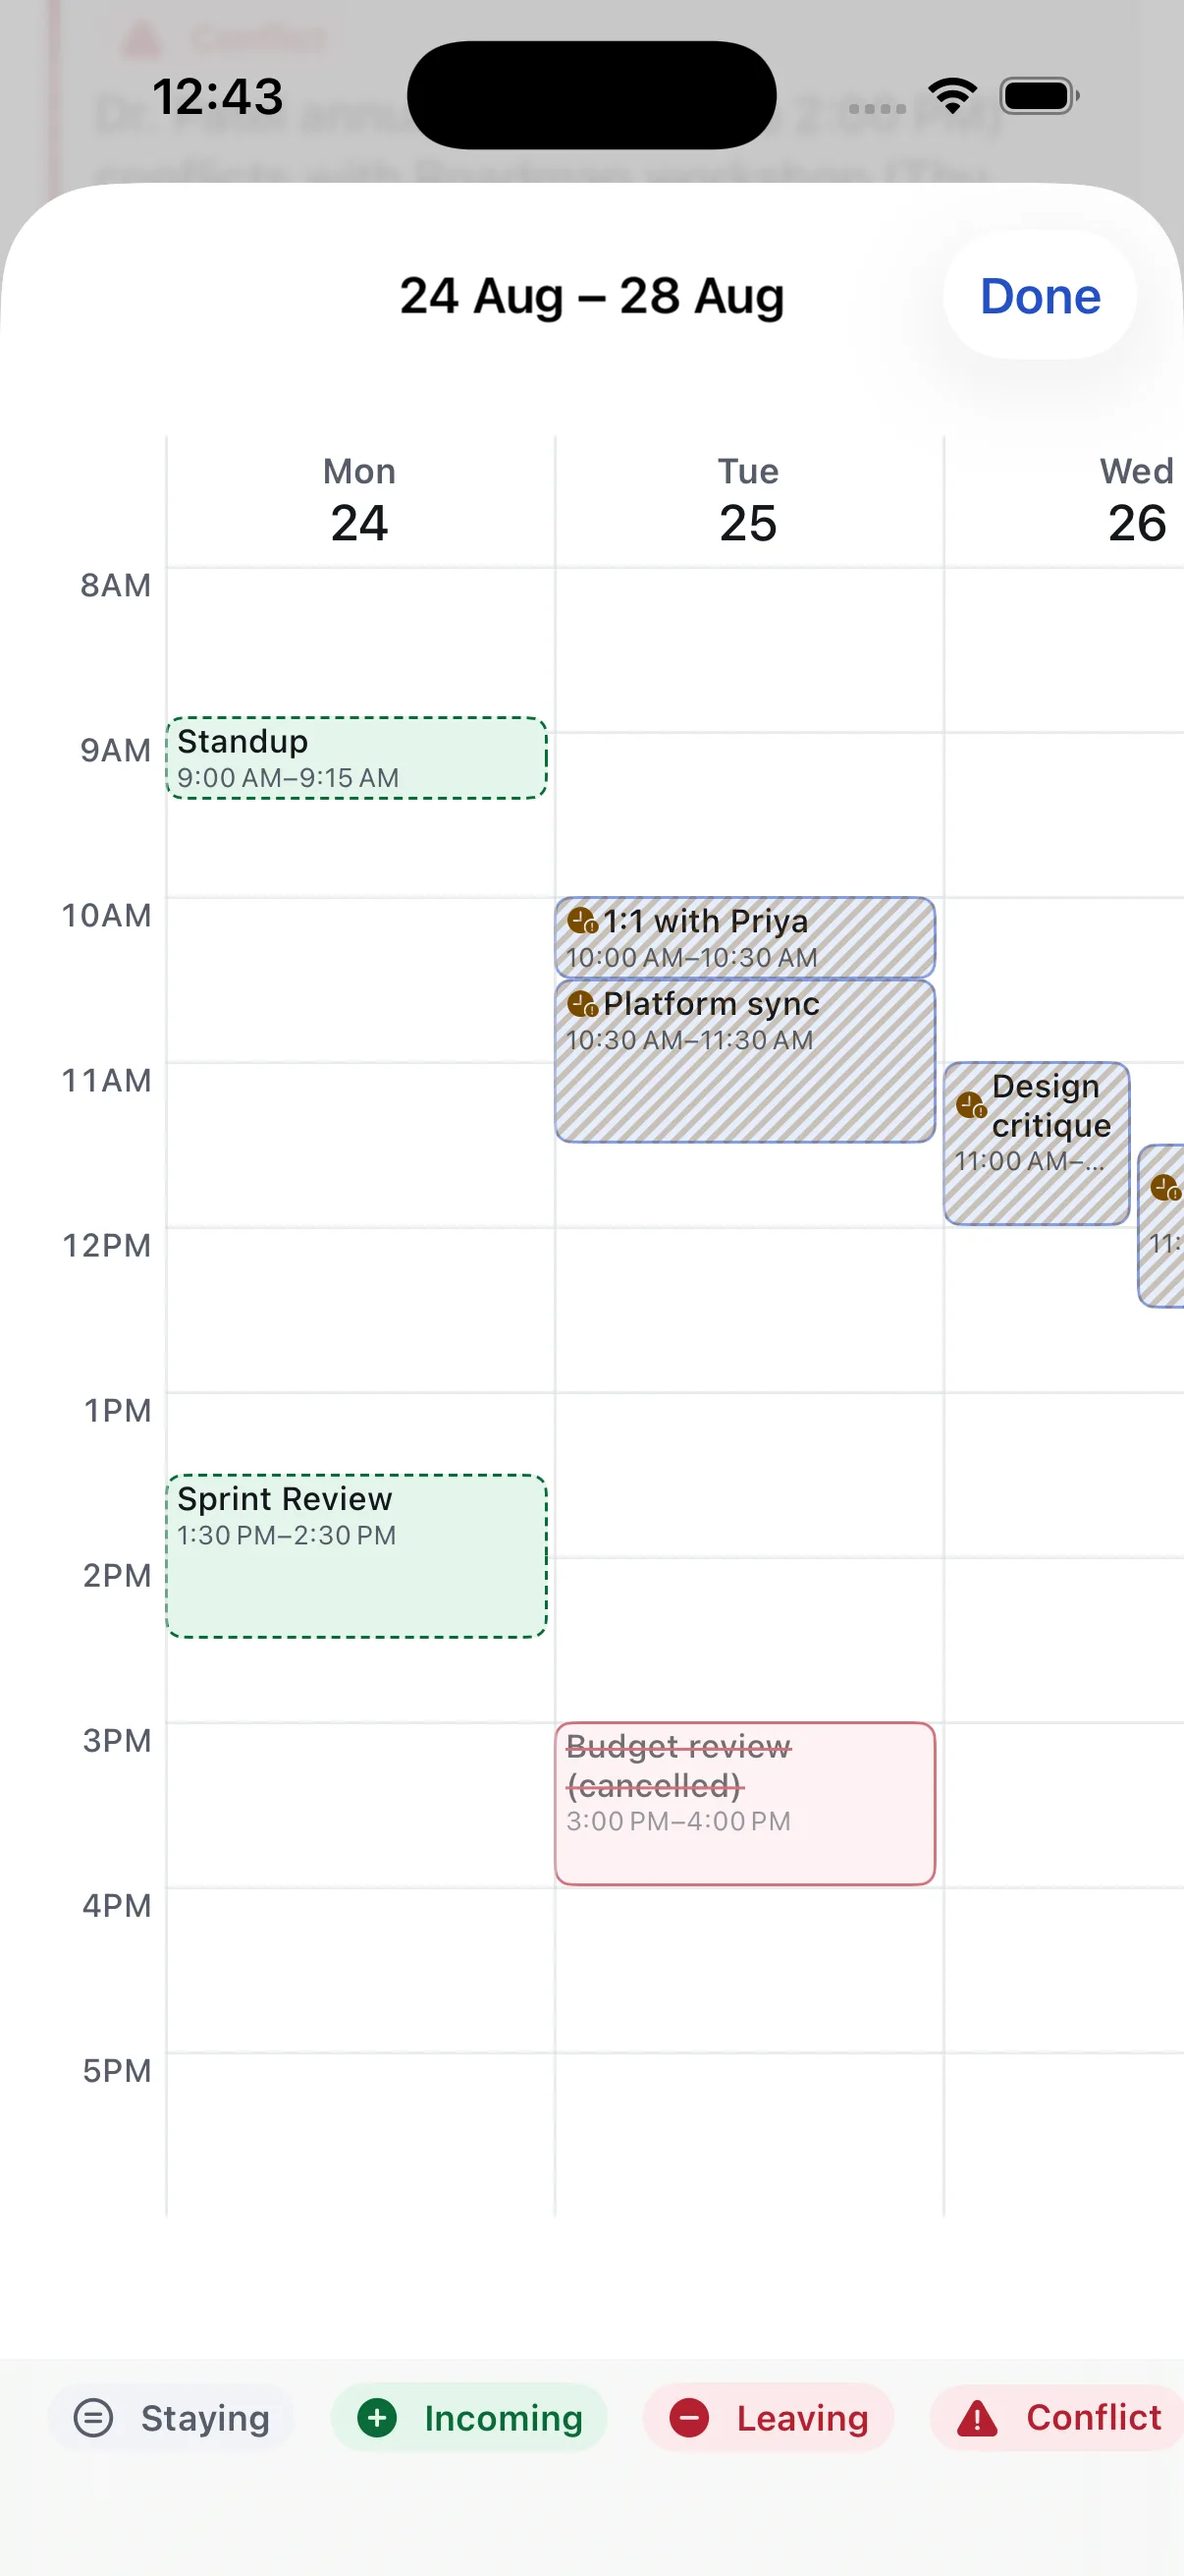
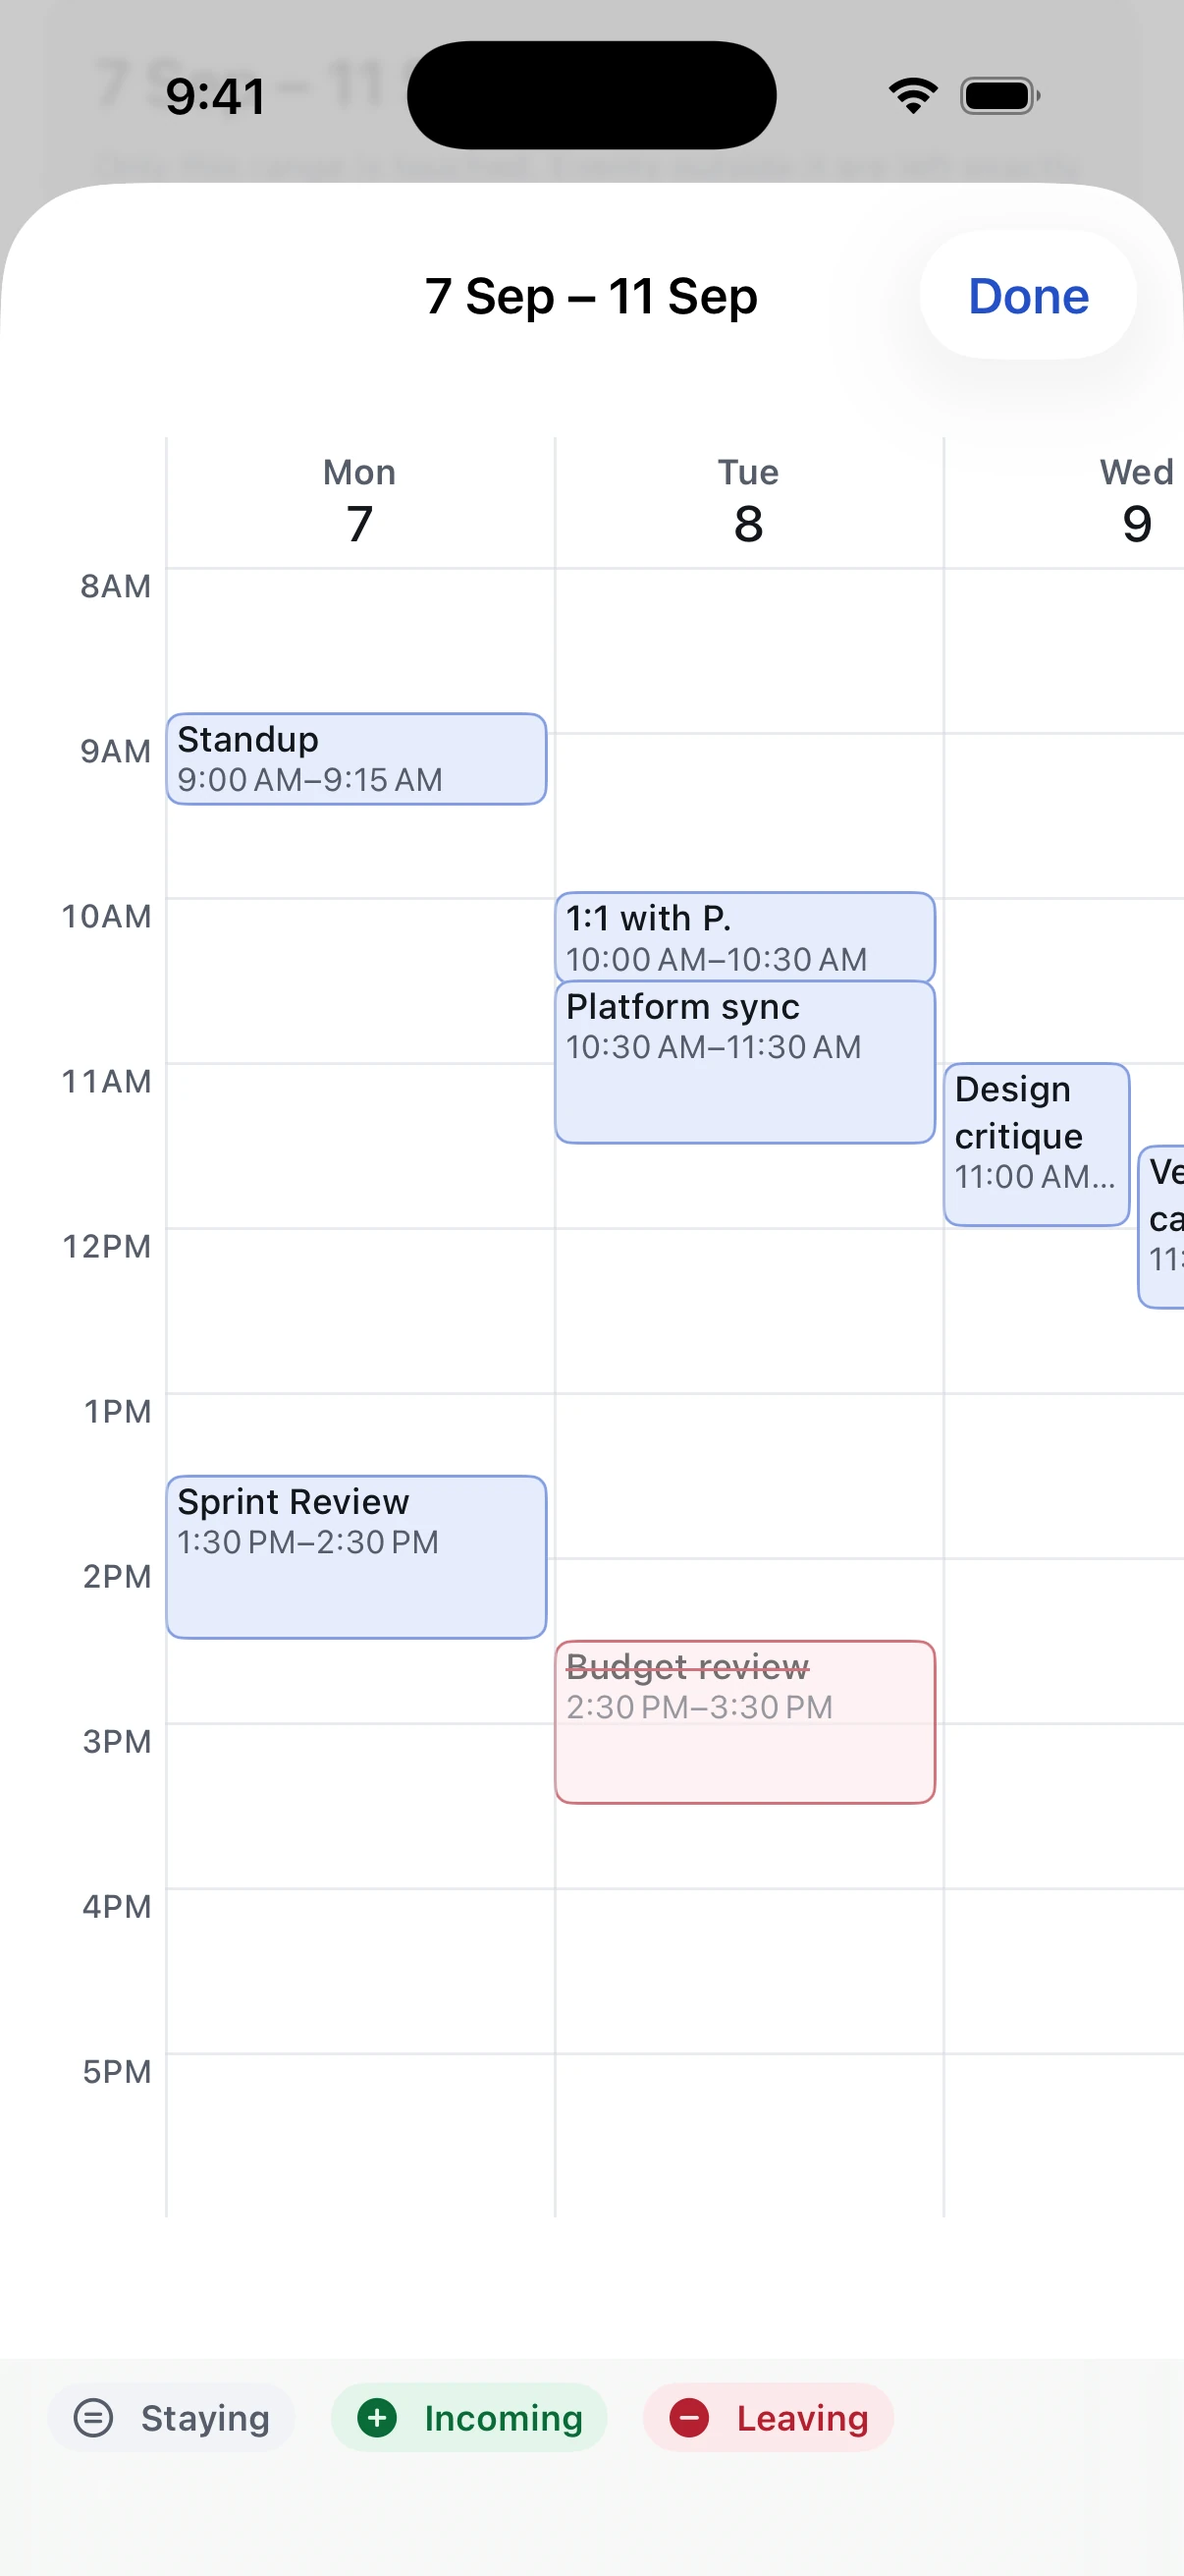
Recapture every screenshot from the simplified app
All seven were captured before the 2026-09-10 simplification and every one of
them showed something the app no longer has — not just the three the last
commit flagged. The hero carried a conflict banner, 03 a pair of tight-fit
warnings, 04 conflict stripes, 05 the whole Conflicts section and the old
"only ever writes to its own calendar" footer, 06 per-event outlines from the
source regions the schema dropped, and 07 the word "changed" where the app now
says "moved".

They are real captures of the running app and the diff in them is a real diff:
scan the demo week and sync it with Roadmap workshop edited to 3 PM, then in
the simulator's Calendar app delete Release go/no-go and add Budget review on
Tuesday. The next scan is 1 added, 1 moved, 1 removed. The removal has to be
made in Calendar rather than by switching a row off in review, because an
edited row keeps its original sync key and pairs back up as a move — the
README records that, since it is the part that wastes an hour otherwise.

06 is worth its own note: the photo is the same demo week drawn by
CalAroundEval's OutlookRenderer, so the photo and the parsed list genuinely
agree, and the shot now shows name hiding doing its job — "1:1 with Priya" in
the photo, "1:1 with P." in the list.

The hero is renamed 02-review, since there are no conflicts in it to name.
04-week-grid is unused on the page now but kept current in case the conflicts
section returns. Alt text follows the new images, including the Scan screen's
[…]

diff --git a/layouts/index.html b/layouts/index.html
@@ -15,8 +15,8 @@
       <div class="device tilt" style="--w:300px">
         <span class="btns"><i class="action"></i><i class="up"></i><i class="down"></i><i class="power"></i></span>
         <span class="screen">
-          <img src="{{ "assets/img/02-review-conflicts.webp" | relURL }}" width="1206" height="2622"
-               alt="CalAround's change review for 24–28 August: one event added, one changed, one removed, with a red conflict warning that Dr. Patel annual checkup at Thursday 2:00 PM overlaps Roadmap workshop by one hour." loading="eager" decoding="async">
+          <img src="{{ "assets/img/02-review.webp" | relURL }}" width="1206" height="2622"
+               alt="CalAround's change review for 7–11 September, showing 1 added, 1 moved, and 1 removed: Release go/no-go added on Friday, and Roadmap workshop moved from 3:00–5:00 PM to 2:00–4:00 PM on Thursday." loading="eager" decoding="async">
         </span>
       </div>
     </div>
@@ -46,7 +46,7 @@
             <span class="btns"><i class="action"></i><i class="up"></i><i class="down"></i><i class="power"></i></span>
             <span class="screen">
               <img src="{{ "assets/img/03-review-rows.webp" | relURL }}" width="1206" height="2622"
-                   alt="The review list showing an Added row for Standup on Monday 9:00 AM and a Removed row striking through Budget review (cancelled) on Tuesday, each with its own toggle." loading="lazy" decoding="async">
+                   alt="The review list with one row in each section, each with its own toggle: Release go/no-go added on Friday, Roadmap workshop moved from 3:00–5:00 PM to 2:00–4:00 PM on Thursday, and Budget review struck through as removed on Tuesday." loading="lazy" decoding="async">
             </span>
           </div>
         </div>
@@ -111,7 +111,7 @@
         <span class="btns"><i class="action"></i><i class="up"></i><i class="down"></i><i class="power"></i></span>
         <span class="screen">
           <img src="{{ "assets/img/07-history-undo.webp" | relURL }}" width="1206" height="2622"
-               alt="The History screen showing a sync of 24–28 August that added one event, changed one, and removed one, with an Undo this sync button." loading="lazy" decoding="async">
+               alt="The History screen showing two syncs of 7–11 September — the latest added one event, moved one, and removed one — each with an Undo this sync button." loading="lazy" decoding="async">
         </span>
       </div>
     </div>
@@ -150,7 +150,7 @@
           <span class="btns"><i class="action"></i><i class="up"></i><i class="down"></i><i class="power"></i></span>
           <span class="screen">
             <img src="{{ "assets/img/01-capture-tips.webp" | relURL }}" width="1206" height="2622"
-                 alt="The Scan screen, showing the current reader and four tips for a clean read: fill the frame with the grid, keep the time gutter visible, avoid glare and shadow, and take two photos of a scrolled view." loading="lazy" decoding="async">
+                 alt="The Scan screen, showing the current reader and five tips for a clean read: fill the frame with the grid, keep the time gutter visible, avoid glare and shadow, take two photos of a scrolled view, and use a list view for exact times." loading="lazy" decoding="async">
           </span>
         </div>
         <figcaption><b>Scan</b>What separates a clean read from a messy one is almost always the photo, so the tips are on the screen where you take it.</figcaption>
@@ -160,7 +160,7 @@
           <span class="btns"><i class="action"></i><i class="up"></i><i class="down"></i><i class="power"></i></span>
           <span class="screen">
             <img src="{{ "assets/img/06-photo-vs-parsed.webp" | relURL }}" width="1206" height="2622"
-                 alt="Photo vs. parsed: the original photograph with each detected event outlined, beside the list of events read from it, with the selected row highlighted in both." loading="lazy" decoding="async">
+                 alt="Photo vs. parsed: a photographed Outlook week above the list of events read from it, where 1:1 with Priya in the photo is listed as 1:1 with P. because names are hidden." loading="lazy" decoding="async">
           </span>
         </div>
         <figcaption><b>Photo vs. parsed</b>The photo sits above what was read from it, so a doubtful read gets settled without retaking the shot.</figcaption>
@@ -170,7 +170,7 @@
           <span class="btns"><i class="action"></i><i class="up"></i><i class="down"></i><i class="power"></i></span>
           <span class="screen">
             <img src="{{ "assets/img/05-settings-privacy.webp" | relURL }}" width="1206" height="2622"
-                 alt="Settings, showing the vision provider picker set to Sample data with a Stays on device privacy badge, the target calendar Work (Scanned), and full calendar access." loading="lazy" decoding="async">
+                 alt="Settings, showing the vision provider picker set to Sample data with a Stays on device privacy badge, CalAround's own calendar as the target, and full calendar access." loading="lazy" decoding="async">
           </span>
         </div>
         <figcaption><b>Settings</b>The reader, the target calendar, and your access level — each stated plainly, plus rules that rewrite meeting titles before anything is written.</figcaption>

diff --git a/README.md b/README.md
@@ -41,10 +41,27 @@ stylesheet is therefore a new URL and can never be served stale from cache. Imag
 iPhone 17 Pro's native 1206×2622, converted to WebP — deliberately **not** downscaled, because the
 phone renders are large and crispness was the point.
 
-**Three of them show features the app no longer has** (as of 2026-09-10) and need recapturing:
-`02-review-conflicts` (the hero — a conflict banner), `04-week-grid` (conflict stripes; no longer
-used on the page), and `06-photo-vs-parsed` (per-event outlines on the photo — source regions were
-removed from the extraction schema). The page copy around them has already been corrected.
+**All seven were recaptured on 2026-09-11** from the simplified app (calaround `main` at
+`4a87f12`), because every original showed something the 2026-09-10 simplification removed —
+conflicts, tight-fit warnings, confidence chips, the watcher's settings. They are real captures of
+the running app, not mockups, and the diff in them is a real diff:
+
+- **Device** — the "CalAround Verify" simulator (iPhone 17 Pro), light appearance, default text
+  size, status bar overridden to 9:41 with full battery: `xcrun simctl status_bar <udid> override
+  --time 9:41 --batteryState discharging --batteryLevel 100 --cellularMode notSupported`.
+- **Reader** — Sample data (demo), with full calendar access pre-granted
+  (`xcrun simctl privacy <udid> grant calendar com.bradbice.calaround`).
+- **The diff** — scan once and sync, after editing *Roadmap workshop* to 3:00 PM in review. Then,
+  in the simulator's Calendar app, delete *Release go/no-go* and add *Budget review* (Tue 2:30 PM)
+  to *Work (Scanned)*. The second scan shows 1 added, 1 moved, 1 removed. The removal has to come
+  from Calendar rather than from a review edit: an edited row keeps its original sync key, so it
+  would pair back up and show as a move.
+- **The photo in `06`** — the Sample week drawn by `CalAroundEval`'s `OutlookRenderer`, so the
+  photo and the parsed list genuinely match. Added to the simulator with `xcrun simctl addmedia`.
+- **Encoding** — `xcrun simctl io <udid> screenshot`, then `cwebp -q 90 -m 6`.
+
+`04-week-grid` is not used on the page since the conflicts section was removed; it is kept current
+in case it comes back.
 
 ## The contact form
 
